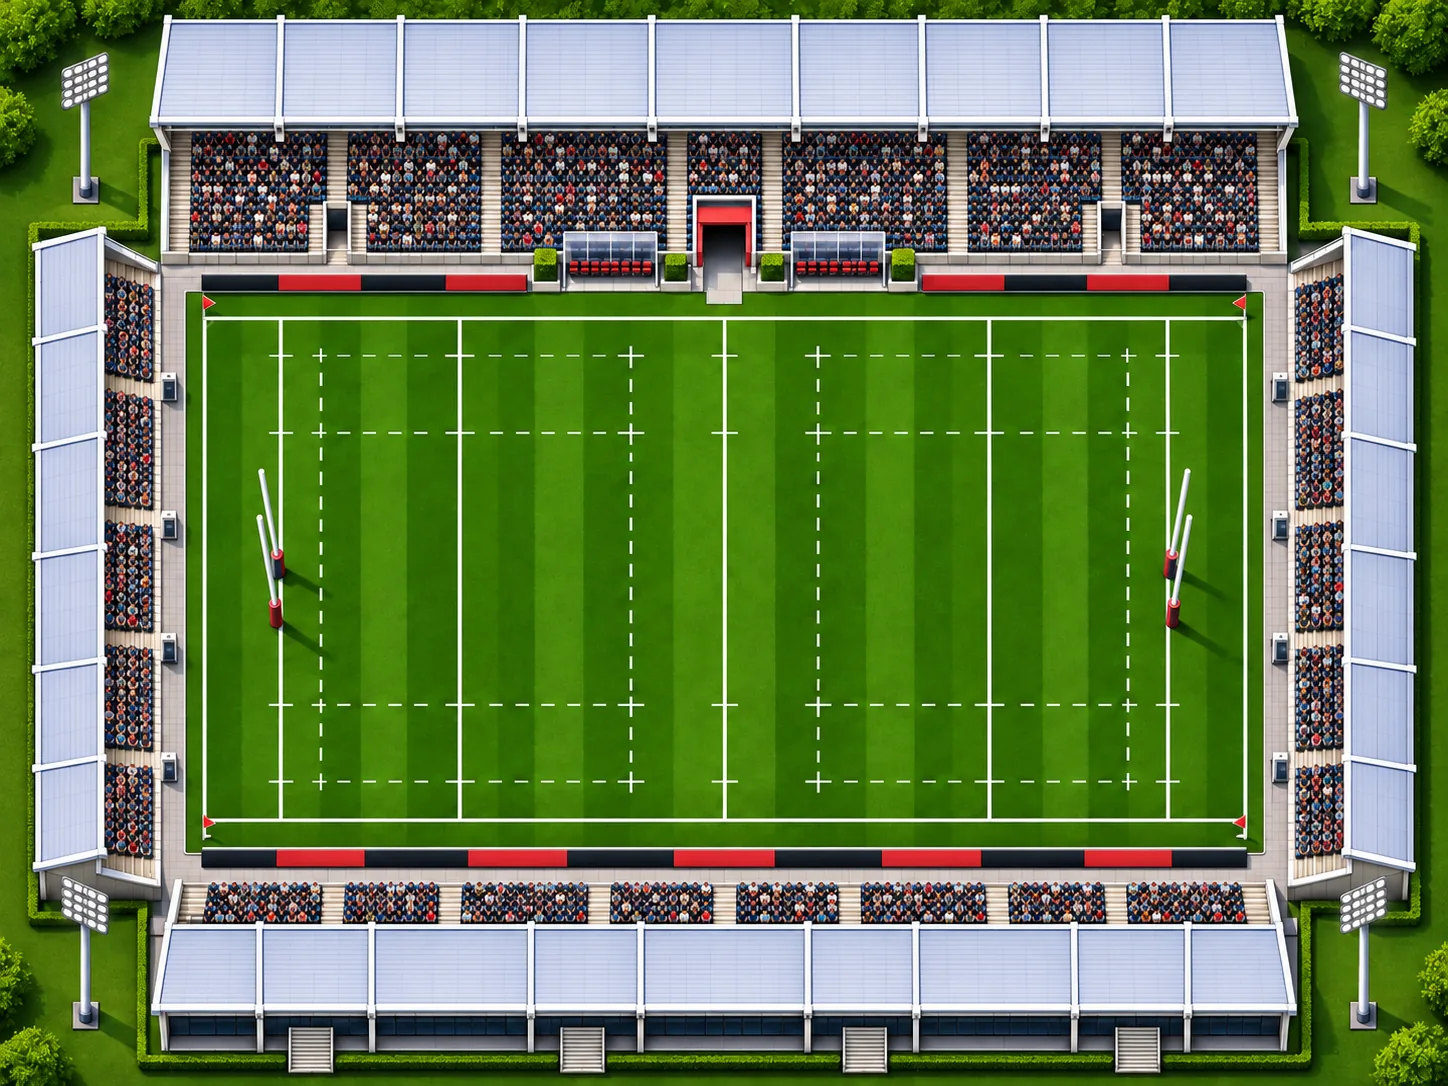
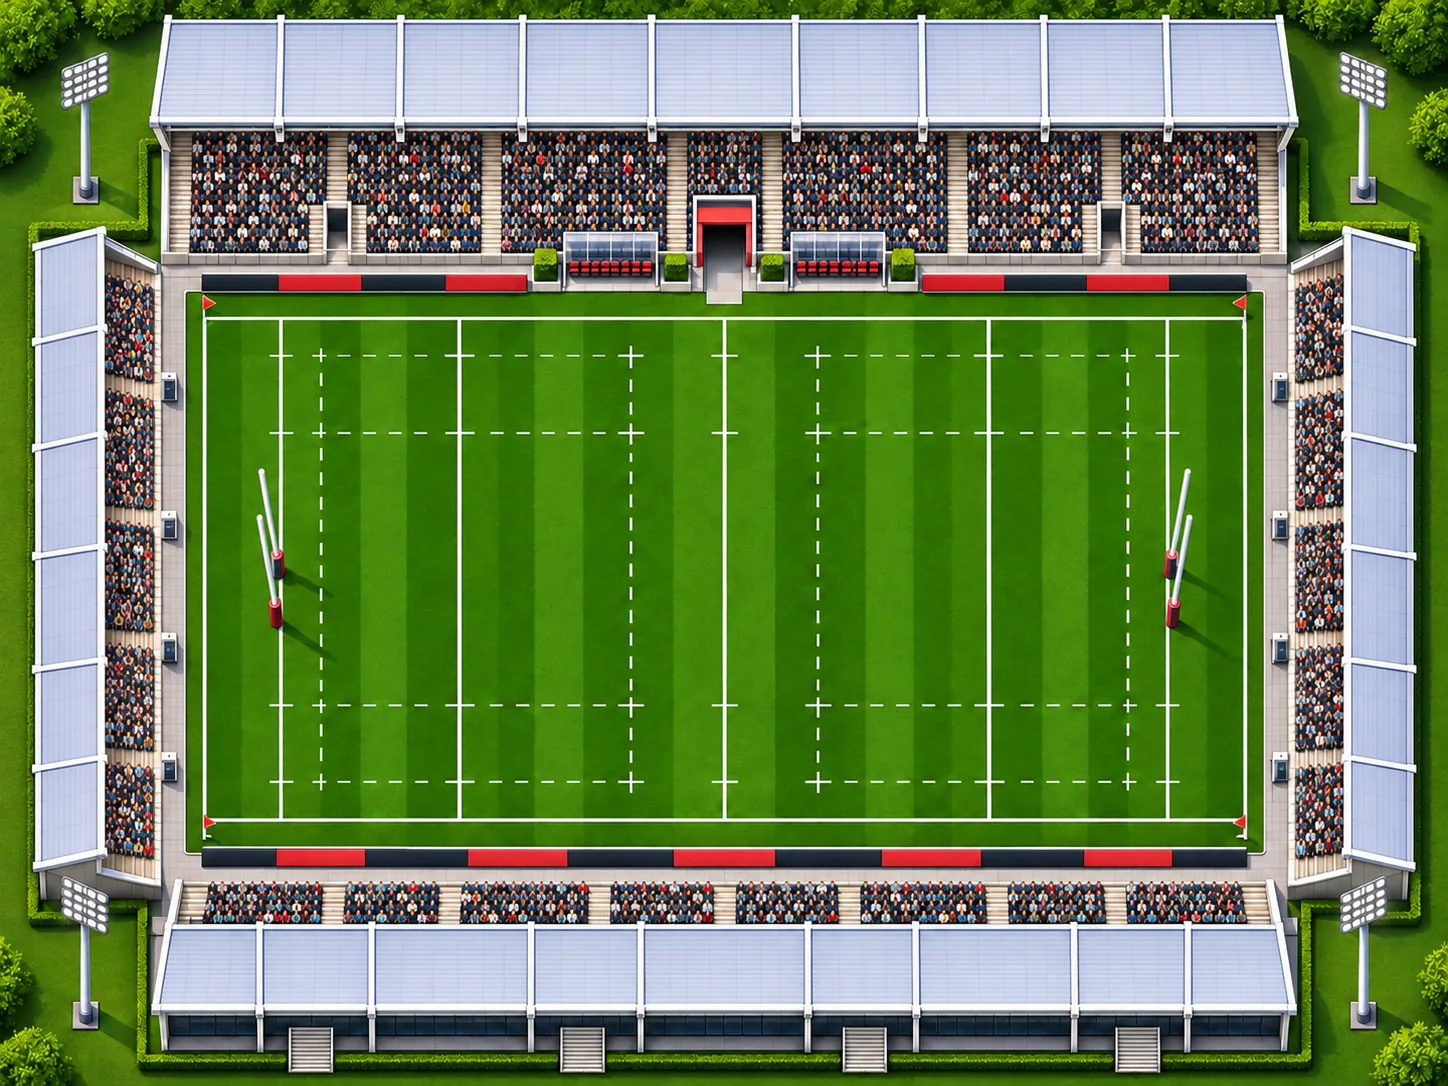
Live pitch: snow ground, green ground under lights, wet night ground, a cleaner navy crowd
Claude-Session: https://claude.ai/code/session_01SkkDyCvtWcPrgYWb7jr97e

diff --git a/src/ui/livepitch/LivePitch.tsx b/src/ui/livepitch/LivePitch.tsx
@@ -14,6 +14,9 @@ import artNight from './stadium-night.webp'
 import artWet from './stadium-wet.webp'
 import artGreen from './stadium-green.webp'
 import artNightRed from './stadium-night-red.webp'
+import artNightGreen from './stadium-night-green.webp'
+import artSnow from './stadium-snow.webp'
+import artNightWet from './stadium-night-wet.webp'
 import type { MatchEvent } from '../../game/model'
 import { readInk, isLight, refereeColour, tokenColor } from '../highlight/draw'
 import { phaseAt, readLine, type Banner, type Phase } from './phase'
@@ -44,24 +47,29 @@ const GOAL = 8
  *  the painter moved the pitch a few pixels between some: x0 and y0 are the
  *  left try line and the far touchline, mx and my the pixels to a metre.) */
 type Stadium = { url: string; w: number; h: number; x0: number; y0: number; mx: number; my: number; seat?: [number, number, number] }
-const GROUNDS: Record<'maroon' | 'red' | 'navy' | 'green' | 'night' | 'nightRed' | 'wet', Stadium> = {
+const GROUNDS: Record<'maroon' | 'red' | 'navy' | 'green' | 'night' | 'nightRed' | 'nightGreen' | 'nightWet' | 'wet' | 'snow', Stadium> = {
   maroon: { url: artMaroon, w: 1448, h: 1086, x0: 280.5, y0: 318, mx: 8.87, my: 7.17, seat: [120, 30, 50] },
   red: { url: artRed, w: 1448, h: 1086, x0: 280, y0: 318, mx: 8.87, my: 7.16, seat: [200, 40, 45] },
   navy: { url: artNavy, w: 1448, h: 1086, x0: 280, y0: 318, mx: 8.87, my: 7.17, seat: [40, 60, 110] },
   green: { url: artGreen, w: 1448, h: 1086, x0: 280, y0: 318, mx: 8.87, my: 7.17, seat: [40, 150, 60] },
   night: { url: artNight, w: 1448, h: 1086, x0: 277, y0: 318, mx: 8.93, my: 7.19, seat: [40, 60, 110] },
   nightRed: { url: artNightRed, w: 1448, h: 1086, x0: 280, y0: 318, mx: 8.875, my: 7.18, seat: [200, 40, 45] },
+  nightGreen: { url: artNightGreen, w: 1448, h: 1086, x0: 280, y0: 318, mx: 8.88, my: 7.17, seat: [40, 150, 60] },
+  nightWet: { url: artNightWet, w: 1448, h: 1086, x0: 280.5, y0: 318.5, mx: 8.865, my: 7.16 },
+  snow: { url: artSnow, w: 1448, h: 1086, x0: 280, y0: 318.5, mx: 8.87, my: 7.16 },
   wet: { url: artWet, w: 1448, h: 1086, x0: 280, y0: 318, mx: 8.87, my: 7.19 },
 }
 /** which ground a match is played in: the floodlit one at night, the wet one
  *  in rain or snow, otherwise the one whose seats are nearest the home colour */
-const pickGround = (night: boolean, wet: boolean, kit: string): Stadium => {
+const pickGround = (night: boolean, wet: boolean, snow: boolean, kit: string): Stadium => {
+  if ((wet || snow) && night) return GROUNDS.nightWet
+  if (snow && !night) return GROUNDS.snow
   if (wet && !night) return GROUNDS.wet
   const m = /^#?([0-9a-f]{2})([0-9a-f]{2})([0-9a-f]{2})/i.exec(kit)
   const c = m ? [parseInt(m[1], 16), parseInt(m[2], 16), parseInt(m[3], 16)] : [40, 60, 110]
   let best = GROUNDS.navy, bd = Infinity
   if (night) best = GROUNDS.night
-  for (const g of night ? [GROUNDS.night, GROUNDS.nightRed] : [GROUNDS.navy, GROUNDS.maroon, GROUNDS.red, GROUNDS.green]) { const d = g.seat!.reduce((t, v, i) => t + (v - c[i]) ** 2, 0); if (d < bd) { bd = d; best = g } }
+  for (const g of night ? [GROUNDS.night, GROUNDS.nightRed, GROUNDS.nightGreen] : [GROUNDS.navy, GROUNDS.maroon, GROUNDS.red, GROUNDS.green]) { const d = g.seat!.reduce((t, v, i) => t + (v - c[i]) ** 2, 0); if (d < bd) { bd = d; best = g } }
   return best
 }
 const artCache = new Map<string, HTMLImageElement>()
@@ -85,7 +93,9 @@ function h2(a: number, b: number): number {
   return ((h ^ (h >>> 16)) % 10000) / 10000
 }
 
-export function LivePitch({ events, cursor, homeId, home, away, paused, names, onPlayed, tr, teams, boards, speed = 1, realTime = false, tactics, night = true, wet = false }: {
+export function LivePitch({ events, cursor, homeId, home, away, paused, names, onPlayed, tr, teams, boards, speed = 1, realTime = false, tactics, night = true, wet = false, snow = false }: {
+  /** snow on the ground */
+  snow?: boolean
   /** rain or snow: the wet ground */
   wet?: boolean
   /** under the lights, or an afternoon kick-off (owner, 17 Nov 2026: "Make day matches too") */
@@ -218,7 +228,7 @@ export function LivePitch({ events, cursor, homeId, home, away, paused, names, o
       }
     }
     // field metres to screen: length up the screen (home attacks up), width across
-    const STADIUM = pickGround(night, wet, io.current.home.kit[0])
+    const STADIUM = pickGround(night, wet, snow, io.current.home.kit[0])
     const stadiumArt = typeof Image !== 'undefined' ? loadArt(STADIUM.url) : null
     const SX = (x: number, y: number) => dim.art ? dim.ox + (STADIUM.x0 + x * STADIUM.mx) * dim.art : dim.up ? dim.ox + (y + SIDE) * dim.sc : dim.ox + (x + GOAL + END) * dim.sc
     const SY = (x: number, y: number) => dim.art ? dim.oy + (STADIUM.y0 + y * STADIUM.my) * dim.art : dim.up ? dim.oy + (100 + GOAL + END - x) * dim.sc : dim.oy + (y + SIDE) * dim.sc
@@ -958,7 +968,7 @@ export function LivePitch({ events, cursor, homeId, home, away, paused, names, o
     void document.fonts?.ready.then(() => { if (cv.isConnected) size() })
     raf = requestAnimationFrame(frame)
     return () => { cancelAnimationFrame(raf); ro.disconnect() }
-  }, [home.kit[0], home.kit[1], away.kit[0], away.kit[1], night, wet])
+  }, [home.kit[0], home.kit[1], away.kit[0], away.kit[1], night, wet, snow])
 
   // the chip says what the play is; a plain carry or tackle says nothing.
   // A called move is named, and named large, for as long as it is being run

diff --git a/src/ui/screens/matchday/Live.tsx b/src/ui/screens/matchday/Live.tsx
@@ -793,7 +793,7 @@ export function Live() {
         <LivePitch events={events} cursor={cursor} homeId={fixture.homeId}
           home={pitchSide(true)} away={pitchSide(false)}
           paused={!playing} speed={[0.85, 1, 1.6][speedIdx] ?? 1}
-          boards={pitchBoards} tactics={pitchTactics} night={pitchNight} wet={fixture.weather === 'Rain' || fixture.weather === 'Snow'}
+          boards={pitchBoards} tactics={pitchTactics} night={pitchNight} wet={fixture.weather === 'Rain'} snow={fixture.weather === 'Snow'}
           onPlayed={moved => setPitchPlayed({ at: useStore.getState().liveMatch?.cursor ?? cursor, moved })}
           tr={(k, v) => t(k, v)} teams={{ home: teamShort(game, fixture.homeId), away: teamShort(game, fixture.awayId) }}
           names={pid => game.players[pid]?.name} />
